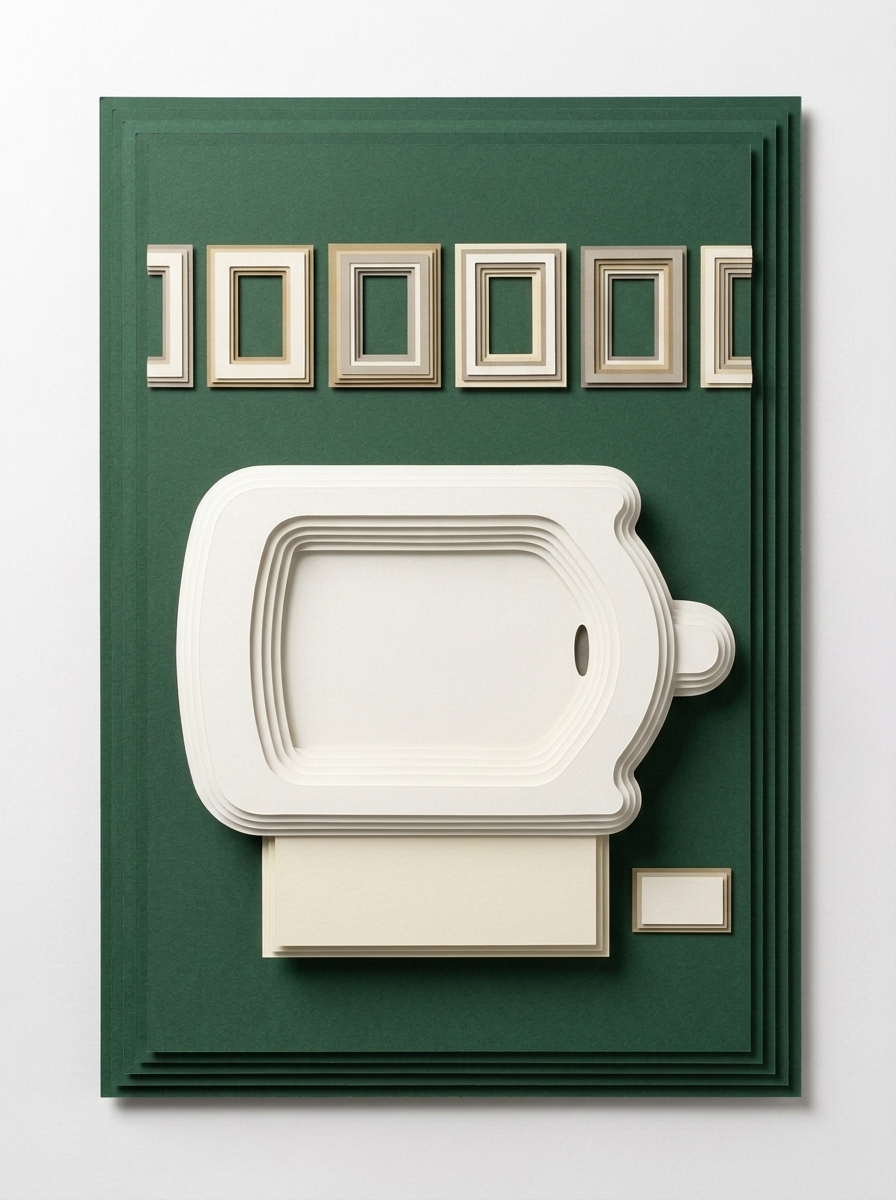
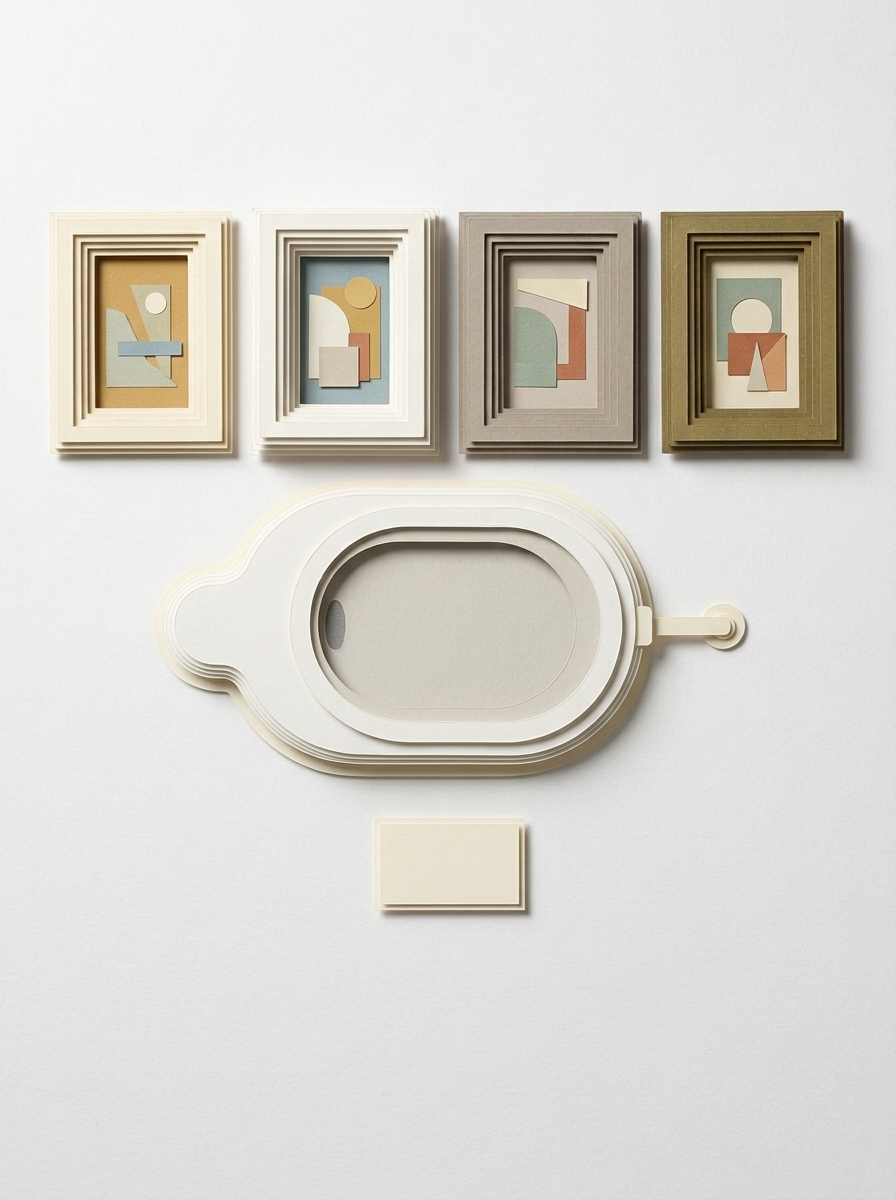
版の背板をやめて、輪郭を凸凹させる
帯に並べたとき 02・03 が「一枚の長方形の板」に見えていた。
原因は絵の下に大きな単色パネルを敷いていたこと。これをやめ、
白地の上に部品を直接置いて、全体の輪郭がぎざぎざになるようにした。

- 02 《泉》: 背板をなくし、額縁の列＋小便器だけを白地に。小便器は
  「本体・リム・ボウル・排水」の4枚だけで組ませて渦巻きにならない
  ようにした。額縁は5枚を画面内に収め、両端に余白を残す
- 03 Before I Die: 背板をなくし、行ごとに独立した厚いブロックへ。
  右端が階段状に出入りする
- 04 Key4All: 鍵を四隅まで広げ、間に余白を取った
- 06 Love is in the Bin: 前のデザイン（額＋下のバーの列）に戻し、
  額の刻みを段階的に、周りに大小の矩形を散らして輪郭を崩した

diff --git a/src/webgl/plateArtVersion.ts b/src/webgl/plateArtVersion.ts
@@ -2,10 +2,10 @@
 // 絵の中身から作った版番号。URLに付けて、古い絵が居座るのを防ぐ。
 export const PLATE_ART_VERSION: Record<string, string> = {
   "01": "ff26da95b3",
-  "02": "6c225c92bb",
-  "03": "795627f0ed",
-  "04": "afa44f46f9",
+  "02": "6e24eddbf6",
+  "03": "83fcd7c3ba",
+  "04": "f38f68e532",
   "05": "3247bdfb15",
-  "06": "d2bc0edcf2",
+  "06": "09ad2542ca",
   "07": "b63797de72"
 } as const;
